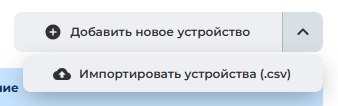
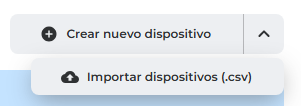
GITBOOK-4: No subject

diff --git a/es/hashcare/opisanie-vkladok/ustroistva.md b/es/hashcare/opisanie-vkladok/ustroistva.md
@@ -1,4 +1,4 @@
-# Устройства
+# Dispositivos
 
 Для сбора данных внешним агентом необходимо создать устройства с заданными параметрами. Устройства привязываются к стеллажу, без привязки создание невозможно. По умолчанию устройства отсутствуют.
 
@@ -76,7 +76,7 @@
 
 4\. Нажать **Создать**.
 
-<figure><img src="../../.gitbook/assets/image (1).png" alt="" width="449"><figcaption></figcaption></figure>
+<figure><img src="../../.gitbook/assets/image (1).png" alt="" width="447"><figcaption></figcaption></figure>
 
 ## **Импортирование устройств списком** <a href="#importirovanie-ustrojstv-spiskom" id="importirovanie-ustrojstv-spiskom"></a>
 
@@ -85,7 +85,7 @@
 3. Выбрать файл .csv на жёстком диске
 4. При успешной загрузке появится сообщение “Файл успешно загружен“
 
-<figure><img src="../../.gitbook/assets/image (3).png" alt=""><figcaption></figcaption></figure>
+<figure><img src="../../.gitbook/assets/image (2).png" alt=""><figcaption></figcaption></figure>
 
 **Пример CSV таблицы**
 
